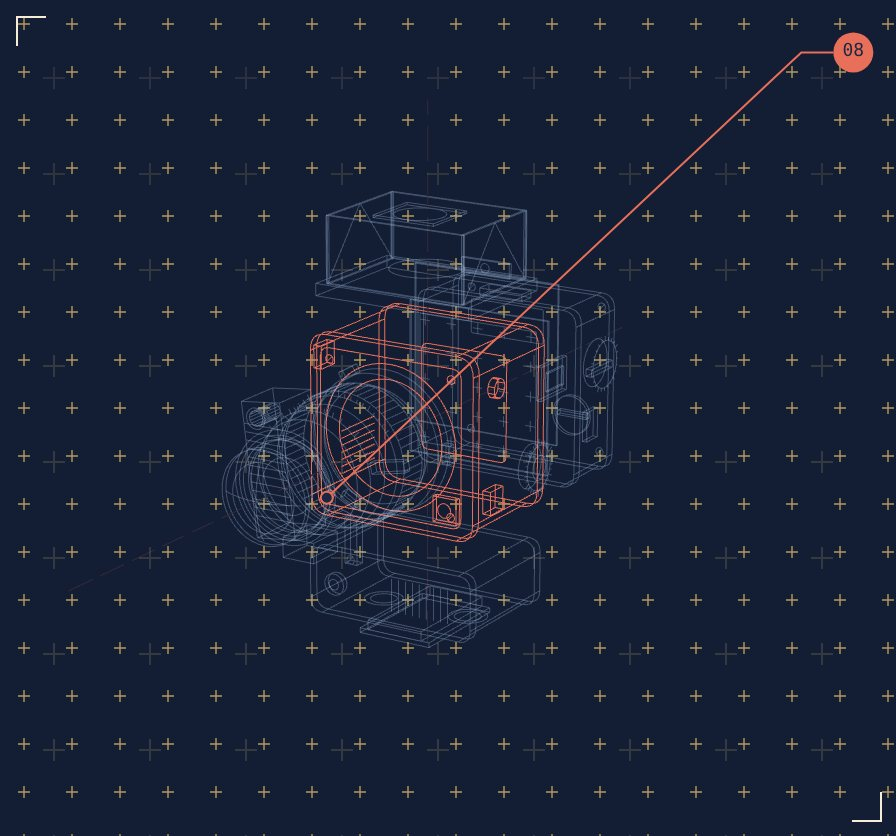
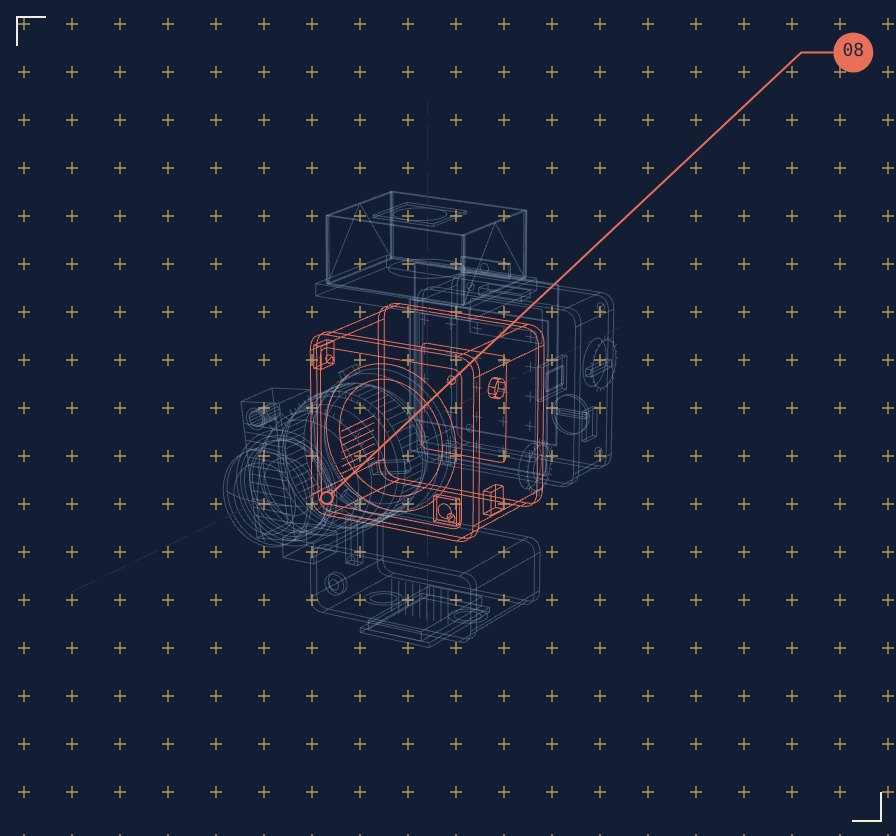
Detail A stills: one grid, never cropped
- Recaptured every inner-page camera still without the page's faint background grid, which doubled the crosses
- The still scales to fit its slot instead of cropping, so the part callout (like 06) is never cut off

Claude-Session: https://claude.ai/code/session_01Lig4WKWwu2Fgq64ryi4Mgd

diff --git a/assets/css/v7-shell.css b/assets/css/v7-shell.css
@@ -64,7 +64,10 @@ html:not(.js) .tbtn { display: none; }
 .dv-head { display: flex; justify-content: space-between; align-items: baseline; gap: var(--s3); padding: 8px 12px; border-bottom: 1px solid var(--rule); font-family: var(--mono); font-size: 10px; letter-spacing: .12em; text-transform: uppercase; color: var(--ink-2); }
 .dv-head b { font-family: var(--serif); font-weight: 400; font-size: 22px; letter-spacing: 0; text-transform: none; color: var(--ink); }
 .dv-view { position: relative; min-height: 0; overflow: hidden; display: block; text-decoration: none; }
-.dv-view img { width: 100%; height: 100%; object-fit: cover; object-position: center 40%; }
+.dv-view { background: #f4f1e8; }
+:root[data-theme="dark"] .dv-view { background: #131e34; }
+/* contain, not cover: a wide or tall slot must never crop the part callout off the drawing */
+.dv-view img { width: 100%; height: 100%; object-fit: contain; object-position: center; }
 .dv-view .dk { display: none; }
 :root[data-theme="dark"] .dv-view .lt { display: none; }
 :root[data-theme="dark"] .dv-view .dk { display: block; }
